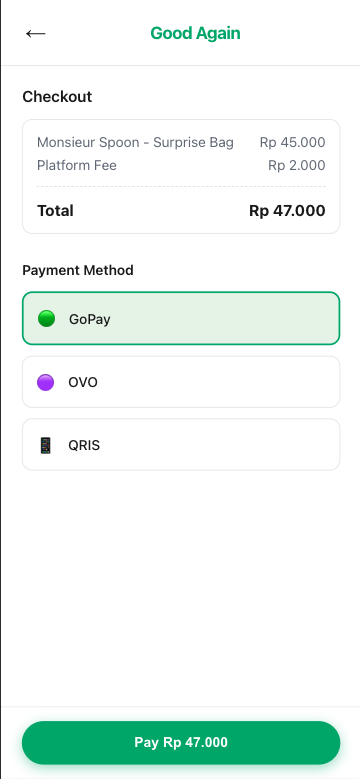
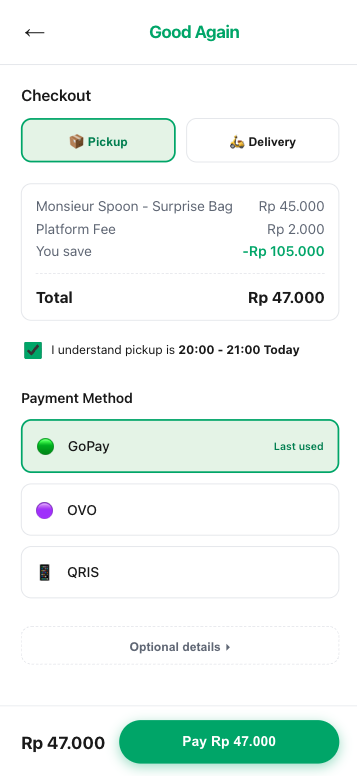
docs: add project documentation and update flow screenshots

diff --git a/Part_1_Customer_Surprise_Bag_Flow.md b/Part_1_Customer_Surprise_Bag_Flow.md
@@ -1,0 +1,75 @@
+# Good Again – Part 1: Customer Surprise Bag Flow
+
+**Challenge:** Full-Stack Product Engineer Final Challenge
+**Deliverable:** One functional feature — the Customer Surprise Bag flow (browse → detail → checkout → success)
+
+---
+
+## What I built
+
+A small but functional **mobile-first** web app covering the core customer journey of a surplus-food marketplace:
+
+1. **Discover / Home** — a list of merchants with available surprise bags (name, photo, distance, pickup time, original vs. discounted price).
+2. **Surprise Bag Detail** — hero image, pickup window, price, "What you might get", tags (e.g. Pastries, Halal), and a Reserve button.
+3. **Checkout** — order summary with platform fee, total, payment method selection (GoPay / OVO / QRIS), and a Pay button.
+4. **Success screen** — confirmation that the bag was reserved with pickup info.
+
+> **Live demo:** https://customer-surprise-bag-flow.vercel.app
+> **Source:** https://github.com/prabowo87/Customer-Surprise-Bag-flow
+
+### Screenshots
+
+- `Home` — merchant list with surprise bags
+- `Details` — surprise bag detail + Reserve
+- `Checkout` — payment method + confirm
+- `Success` — reservation confirmation
+
+*(Full-size screenshots are included in the `screenshots/` folder and in this submission folder.)*
+
+---
+
+## Why I designed it this way
+
+- **The surprise-bag purchase is the core of the product.** Discovery and payment are what actually create value for both the customer (affordable food) and the merchant (revenue from surplus). So I prioritised a clean, fast path from "see a bag" to "paid".
+- **Mobile-first.** Most users of a food-rescue app order from their phone, often on the go. The layout is a single-column, 480px-max container with a sticky bottom action bar so the primary action is always reachable.
+- **Trust & clarity before checkout.** A surprise bag is sold "blind", so the detail screen surfaces the pickup time, price, and a plain-language description of typical contents to reduce hesitation.
+- **Three familiar local payment methods** (GoPay, OVO, QRIS) match how Indonesian users actually pay.
+
+---
+
+## Tech stack
+
+| Layer | Choice | Why |
+|---|---|---|
+| Framework | React (with hooks) | Simple, component-based, easy to extend |
+| Build tool | Vite | Fast dev server + instant HMR |
+| Styling | Standard CSS | Light dependency footprint; keeps the app fast and portable |
+| Types | TypeScript | Catch errors early; self-documenting data shapes |
+| Deployment | Vercel | Free, zero-config hosting |
+
+---
+
+## Key implementation notes
+
+- **State-driven navigation:** a single `currentView` state (`list / detail / checkout / success`) drives which screen renders, with a back button and a selected merchant shared across views.
+- **Mock data:** merchants live in a typed mock dataset so the UI can be designed and tested before any backend exists.
+- **Clean-up hooks:** `dist/` output is git-ignored; source is in `src/`.
+
+---
+
+## How to run it locally
+
+```bash
+npm install
+npm run dev
+```
+
+Then open `http://localhost:5173`.
+
+---
+
+## Scope decisions (what I deliberately kept out)
+
+- No real payment integration — payment is simulated client-side.
+- No backend / database yet — auth, orders, and inventory are stubbed with mock data.
+- One flow (customer side) as requested; the merchant dashboard and delivery flow are out of scope for this feature.
